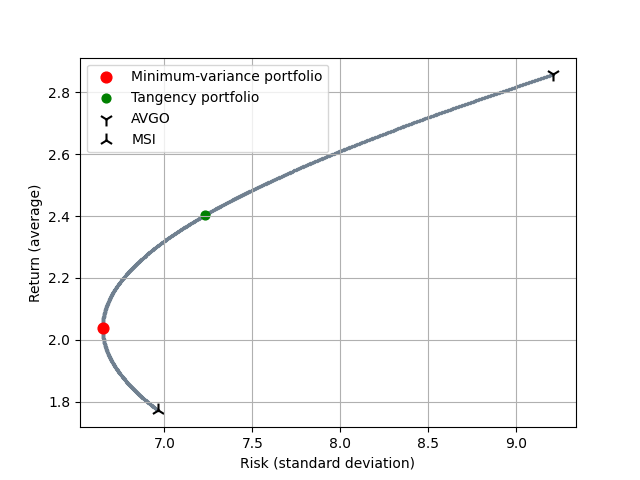
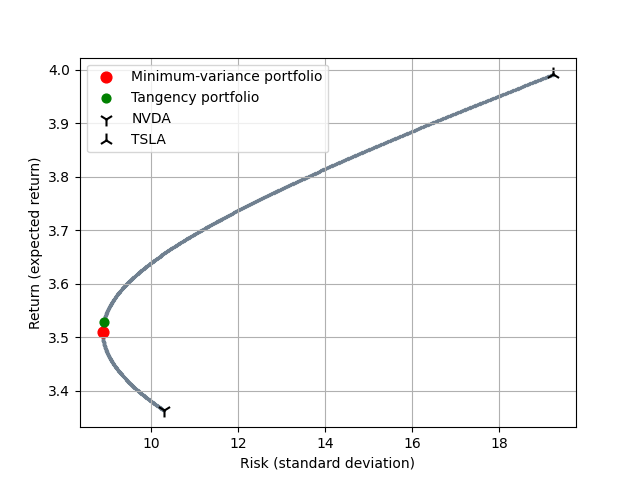
Add files via upload

diff --git a/portfolio_analysis.py b/portfolio_analysis.py
@@ -1,0 +1,233 @@
+import matplotlib.pyplot as plt
+import numpy as np
+import pandas as pd
+import yfinance as yf
+from os import system
+
+# exp_ret = expected return
+# std_dev = standard deviation
+# var = variance
+# cov = covariance
+# corr = correlation
+# rf = risk-free asset
+# rp = risk premium
+# w = portfolio weights
+# sharpe = Sharpe ratio
+# mvp = minimum-variance portfolio
+# omp = tangency portfolio (optimal portfolio)
+
+BANNER = r"""
+ ______                    __           __      
+/_  __/    _____      ___ / /____  ____/ /__ ___
+ / / | |/|/ / _ \    (_-</ __/ _ \/ __/  '_/(_-<
+/_/  |__,__/\___/ __/___/\__/\___/\__/_/\_\/___/
+   ___  ___  ____/ /_/ _/__  / (_)__            
+  / _ \/ _ \/ __/ __/ _/ _ \/ / / _ \           
+ / .__/\___/_/  \__/_/ \___/_/_/\___/           
+/_/                                             
+"""
+
+RF_TICKER = "^TNX"
+PERIOD = "1y"
+INTERVAL = "1mo"
+RISK_FREE_DIVISOR = 10 * 12  # monthly risk-free return
+SHORT_SELLING = False
+
+
+def input_tickers() -> list[str]:
+    """Prompt user to input ticker symbols for two assets."""
+    tickers = []
+    for i in range(2):
+        try:
+            ticker = input(f"Ticker symbol of asset {i+1}: ")
+            ticker_info = yf.Ticker(ticker).info
+            print("\t", ticker_info["longName"])
+            tickers.append(ticker_info["symbol"])
+        except AttributeError:
+            input("Invalid ticker symbol\nProgram finished ")
+            exit()
+    return tickers
+
+
+def download_rf(ticker: str = RF_TICKER) -> float:
+    """Download risk-free asset data and return monthly risk-free return."""
+    print(f"Risk-free asset: {ticker}")
+    ticker_info = yf.Ticker(ticker).info
+    print("\t", ticker_info["longName"])
+    rf = ticker_info["previousClose"] / RISK_FREE_DIVISOR
+    return rf
+
+
+def download_assets(tickers: list[str]) -> pd.DataFrame:
+    """Download historical close prices for the given tickers."""
+    print(f"Downloading assets: {tickers}")
+    hist_prices = yf.download(tickers=tickers, period=PERIOD, interval=INTERVAL)
+    return hist_prices["Close"]
+
+
+def assets_stats(
+    assets_hist_close: pd.DataFrame,
+) -> tuple[pd.Series, pd.Series, float, float]:
+    """Calculate statistics for the given assets."""
+    assets_retruns = assets_hist_close.pct_change() * 100
+    exp_ret = assets_retruns.mean()
+    std_dev = assets_retruns.std()
+    var = assets_retruns.cov().iloc[0, 1]
+    corr = assets_retruns.corr().iloc[0, 1]
+    return exp_ret, std_dev, var, corr
+
+
+def minimum_variance_portfolio(std_dev: pd.Series, cov: float) -> pd.DataFrame:
+    """Calculate the minimum-variance portfolio weights."""
+    tickers = std_dev.index
+    var_1, var_2 = std_dev.iloc[0] ** 2, std_dev.iloc[1] ** 2
+    w_1 = (var_2 - cov) / (var_1 + var_2 - 2 * cov)
+    if not SHORT_SELLING:
+        if w_1 > 1:
+            w_1 = 1
+        elif w_1 < 0:
+            w_1 = 0
+    w_2 = 1 - w_1
+    return pd.DataFrame([w_1, w_2], index=tickers, columns=["weigths"])
+
+
+def tangency_portfolio(
+    exp_ret: pd.Series, std_dev: pd.Series, cov: float, rf: float
+) -> pd.DataFrame:
+    """Calculate the tangency portfolio weights."""
+    tickers = exp_ret.index
+    exp_ret_1, exp_ret_2 = exp_ret.iloc[0], exp_ret.iloc[1]
+    var_1, var_2 = std_dev.iloc[0] ** 2, std_dev.iloc[1] ** 2
+    rp_1, rp_2 = exp_ret_1 - rf, exp_ret_2 - rf
+    w_1 = (rp_1 * var_2 - rp_2 * cov) / (
+        rp_1 * var_2 + rp_2 * var_1 - (rp_1 + rp_2) * cov
+    )
+    if not SHORT_SELLING:
+        if w_1 > 1:
+            w_1 = 1
+        elif w_1 < 0:
+            w_1 = 0
+    w_2 = 1 - w_1
+    return pd.DataFrame([w_1, w_2], index=tickers, columns=["weigths"])
+
+
+def portfolio_stats(
+    exp_ret: pd.Series, std_dev: pd.Series, cov: float, w: pd.DataFrame
+) -> tuple[float, float]:
+    """Calculate the expected return and standard deviation of the portfolio."""
+    exp_ret_1, exp_ret_2 = exp_ret.iloc[0], exp_ret.iloc[1]
+    std_dev_1, std_dev_2 = std_dev.iloc[0], std_dev.iloc[1]
+    w_1, w_2 = w.iloc[0].values, w.iloc[1].values
+    exp_ret_p = w_1 * exp_ret_1 + w_2 * exp_ret_2
+    var_p = (w_1 * std_dev_1) ** 2 + (w_2 * std_dev_2) ** 2 + 2 * w_1 * w_2 * cov
+    std_dev_p = np.sqrt(var_p)
+    return exp_ret_p[0], std_dev_p[0]
+
+
+def sharpe_ratio(exp_ret: pd.Series, std_dev: pd.Series, rf: float) -> float:
+    """Calculate and return the Sharpe ratio."""
+    return (exp_ret - rf) / std_dev
+
+
+def portfolio_table(
+    exp_ret: pd.Series, std_dev: pd.Series, cov: float, step: float = 0.001
+) -> pd.DataFrame:
+    """Generate a table of portfolio statistics."""
+    exp_ret_1, exp_ret_2 = exp_ret.iloc[0], exp_ret.iloc[1]
+    std_dev_1, std_dev_2 = std_dev.iloc[0], std_dev.iloc[1]
+    table = pd.DataFrame({"w_1": np.arange(0, 1 + step, step).tolist()})
+    table["w_2"] = 1 - table["w_1"]
+    table["exp_ret"] = table["w_1"] * exp_ret_1 + table["w_2"] * exp_ret_2
+    table["var"] = (
+        (table["w_1"] * std_dev_1) ** 2
+        + (table["w_2"] * std_dev_2) ** 2
+        + 2 * table["w_1"] * table["w_2"] * cov
+    )
+    table["std_dev"] = np.sqrt(table["var"])
+    return table
+
+
+def main():
+    """Main function to execute the portfolio analysis."""
+    print(BANNER)
+    tickers = input_tickers()
+    tickers.sort()
+    hist_prices = download_assets(tickers)
+    rf = download_rf()
+    input("Download complete. Press Enter to perform the calculations ")
+    system("cls")
+    print(f"rf = {rf:.2f}")
+
+    print("\nPerformance statistics:")
+    exp_ret, std_dev, cov, corr = assets_stats(hist_prices)
+    sharpe = sharpe_ratio(exp_ret, std_dev, rf)
+    print(
+        pd.concat(
+            [exp_ret, std_dev, sharpe],
+            axis=1,
+            keys=["Expected return", "Standard deviation", "Sharpe ratio"],
+        ).T.round(3)
+    )
+    print(f"Covariance  {cov:.3f}")
+    print(f"Correlation {corr:.3f}")
+
+    print("\nMinimum-variance portfolio:")
+    w_mvp = minimum_variance_portfolio(std_dev, cov)
+    print(w_mvp.T.round(3))
+    exp_ret_mvp, std_dev_mvp = portfolio_stats(exp_ret, std_dev, cov, w_mvp)
+    sharpe_mvp = sharpe_ratio(exp_ret_mvp, std_dev_mvp, rf)
+    print(f"Expected return     {exp_ret_mvp:.3f}")
+    print(f"Standard deviation  {std_dev_mvp:.3f}")
+    print(f"Sharpe ratio        {sharpe_mvp:.3f}")
+
+    print("\nTangency portfolio:")
+    w_omp = tangency_portfolio(exp_ret, std_dev, cov, rf)
+    print(w_omp.T.round(3))
+    exp_ret_omp, std_dev_omp = portfolio_stats(exp_ret, std_dev, cov, w_omp)
+    sharpe_omp = sharpe_ratio(exp_ret_omp, std_dev_omp, rf)
+    print(f"Expected return     {exp_ret_omp:.3f}")
+    print(f"Standard deviation  {std_dev_omp:.3f}")
+    print(f"Sharpe ratio        {sharpe_omp:.3f}")
+
+    plot_ios = input("\nPlot the investment opportunity set? [Y/n] ")
+    if plot_ios not in ("n", "N", False, 0):
+        table = portfolio_table(exp_ret, std_dev, cov)
+        plt.xlabel("Risk (standard deviation)")
+        plt.ylabel("Return (expected return)")
+        plt.scatter(table["std_dev"], table["exp_ret"], s=2, c="slategray")
+        plt.scatter(
+            std_dev_mvp,
+            exp_ret_mvp,
+            s=60,
+            c="red",
+            label="Minimum-variance portfolio",
+        )
+        plt.scatter(
+            std_dev_omp, exp_ret_omp, s=40, c="green", label="Tangency portfolio"
+        )
+        plt.scatter(
+            table["std_dev"].tail(1),
+            table["exp_ret"].tail(1),
+            s=100,
+            c="black",
+            marker="1",
+            label=exp_ret.index[0],
+        )
+        plt.scatter(
+            table["std_dev"].head(1),
+            table["exp_ret"].head(1),
+            s=100,
+            c="black",
+            marker="2",
+            label=exp_ret.index[1],
+        )
+        plt.legend()
+        plt.grid()
+        plt.show()
+        plt.close()
+
+    input("\nProgram finished ")
+
+
+if __name__ == "__main__":
+    main()

diff --git a/README.md b/README.md
@@ -33,45 +33,44 @@ Usage demo with Motorola Solutions, Inc. (MSI) and Broadcom Inc. (AVGO) stocks:
   / _ \/ _ \/ __/ __/ _/ _ \/ / / _ \
  / .__/\___/_/  \__/_/ \___/_/_/\___/
 /_/
-Statistics are calculated as monthly
 
-Ticker symbol of asset 1: MSI
-         Motorola Solutions, Inc.
-Ticker symbol of asset 2: AVGO
-         Broadcom Inc.
-Downloading assets: ['AVGO', 'MSI']
-[*********************100%%**********************]  2 of 2 completed
+Ticker symbol of asset 1: NVDA
+         NVIDIA Corporation
+Ticker symbol of asset 2: TSLA
+         Tesla, Inc.
+Downloading assets: ['NVDA', 'TSLA']
+[*********************100%***********************]  2 of 2 completed
 Risk-free asset: ^TNX
          CBOE Interest Rate 10 Year T No
-Download complete. Press Enter to perform calculations 
+Download complete. Press Enter to perform the calculations
 ```
 
 Pressing `Enter`:
 
 ```
-rf = 0.03
+rf = 0.04
 
 Performance statistics:
-Ticker   AVGO    MSI
-avg     2.858  1.772
-stdev   9.211  6.964
-Sharpe  0.306  0.249
-covar  30.998
-correl 0.483
+Ticker                NVDA    TSLA
+Expected return      3.363   3.991
+Standard deviation  10.300  19.256
+Sharpe ratio         0.323   0.205
+Covariance  -9.853
+Correlation -0.050
 
 Minimum-variance portfolio:
-Ticker    AVGO    MSI
-weigths  0.245  0.755
-avg    2.038
-stdev  6.649
-Sharpe 0.301
+Ticker    NVDA   TSLA
+weigths  0.767  0.233
+Expected return     3.510
+Standard deviation  8.890
+Sharpe ratio        0.391
 
 Tangency portfolio:
-Ticker    AVGO    MSI
-weigths  0.581  0.419
-avg    2.403
-stdev  7.229
-Sharpe 0.328
+Ticker    NVDA   TSLA
+weigths  0.738  0.262
+Expected return     3.528
+Standard deviation  8.913
+Sharpe ratio        0.392
 
 Plot the investment opportunity set? [Y/n]
 ```
